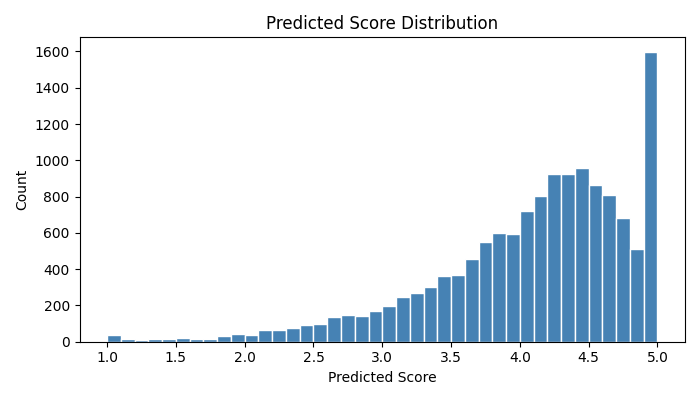
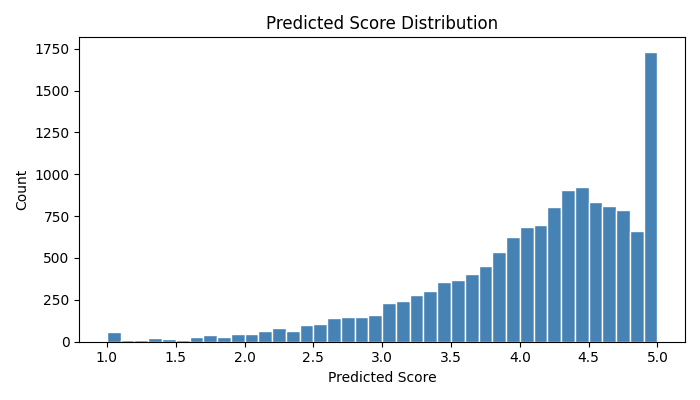
Smoothed bias (k=10)

diff --git a/src/features.py b/src/features.py
@@ -7,39 +7,53 @@ import pandas as pd
 import numpy as np
 
 
-def build_bias_features(train_labeled, all_data):
+def build_bias_features(train_labeled, all_data, shrinkage=10):
     """
-    Compute user-level and product-level average scores from labeled training rows.
-    Returns a DataFrame of bias features indexed by the same index as all_data.
+    Compute smoothed (Bayesian) user and product bias features.
+    shrinkage=k: rare users/products are pulled toward global mean.
+    Formula: smoothed_mean = (n * raw_mean + k * global_mean) / (n + k)
     """
+    global_mean = train_labeled["Score"].mean()
+
     user_stats = (
         train_labeled.groupby("UserId")["Score"]
-        .agg(user_mean_score="mean", user_review_count="count")
+        .agg(user_raw_mean="mean", user_review_count="count")
         .reset_index()
     )
     product_stats = (
         train_labeled.groupby("ProductId")["Score"]
-        .agg(product_mean_score="mean", product_review_count="count")
+        .agg(product_raw_mean="mean", product_review_count="count")
         .reset_index()
     )
 
-    global_mean = train_labeled["Score"].mean()
+    # Smoothed means
+    user_stats["user_mean_score"] = (
+        (user_stats["user_review_count"] * user_stats["user_raw_mean"] + shrinkage * global_mean)
+        / (user_stats["user_review_count"] + shrinkage)
+    )
+    product_stats["product_mean_score"] = (
+        (product_stats["product_review_count"] * product_stats["product_raw_mean"] + shrinkage * global_mean)
+        / (product_stats["product_review_count"] + shrinkage)
+    )
 
     df = all_data[["UserId", "ProductId"]].copy()
-    df = df.merge(user_stats, on="UserId", how="left")
-    df = df.merge(product_stats, on="ProductId", how="left")
+    df = df.merge(user_stats[["UserId", "user_mean_score", "user_review_count"]], on="UserId", how="left")
+    df = df.merge(product_stats[["ProductId", "product_mean_score", "product_review_count"]], on="ProductId", how="left")
 
     df["user_mean_score"] = df["user_mean_score"].fillna(global_mean)
     df["user_review_count"] = df["user_review_count"].fillna(0)
     df["product_mean_score"] = df["product_mean_score"].fillna(global_mean)
     df["product_review_count"] = df["product_review_count"].fillna(0)
 
-    # Difference between user average and global average (user bias)
     df["user_bias"] = df["user_mean_score"] - global_mean
     df["product_bias"] = df["product_mean_score"] - global_mean
 
+    # Combined bias signal
+    df["user_product_bias"] = df["user_bias"] + df["product_bias"]
+
     return df[["user_mean_score", "user_review_count", "product_mean_score",
-               "product_review_count", "user_bias", "product_bias"]].values
+               "product_review_count", "user_bias", "product_bias",
+               "user_product_bias"]].values
 
 
 def build_numeric_features(df):

diff --git a/README.md b/README.md
@@ -109,8 +109,11 @@ Please take a look at the starter code in the jupyter notebook.
 
 
 # Difficulties : 
-I tested LSA with TruncatedSVD, but it increased validation RMSE from 1.1823 to 1.1929, so I kept the raw TF-IDF representation.
-I was using a hardcore dummy set for testing , and not  actualy implementing predictions and found myself cought in a deadend. 
+- I tested LSA with TruncatedSVD, but it increased validation RMSE from 1.1823 to 1.1929, so I kept the raw TF-IDF representation.
+- I was using a hardcore dummy set for testing , and not  actualy implementing predictions and found myself cought in a deadend. 
+- Data leakage — when computing user and product bias features (mean rating per user/product), I was calculating them from the entire labeled dataset before splitting into train/validation. This meant the
+  validation set's bias features included its own scores in the mean, so the model effectively "saw" the answers during evaluation. Local RMSE appeared to be 0.579 while Kaggle scored 0.979 — a gap that revealed
+  the leak. The fix was to split the labeled DataFrame first, then compute all bias statistics exclusively from the training fold and apply them to the validation fold.
 
 # Root causes of old poor performance:
   1. Previous submission used hardcoded 3.5 for all predictions — the model was never actually used
